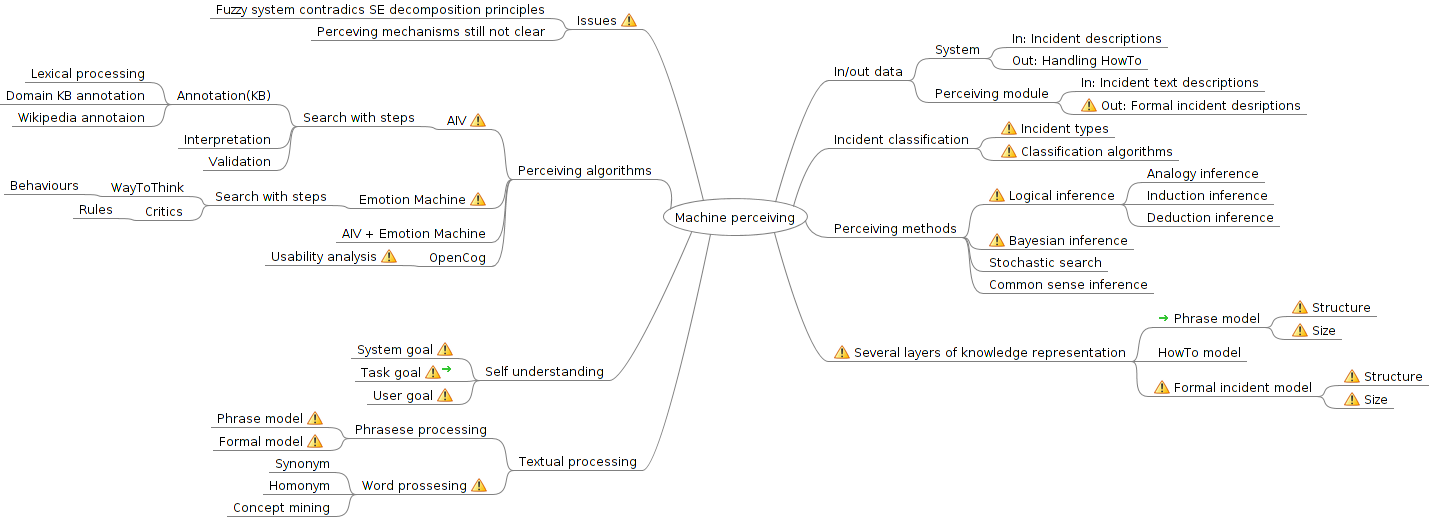
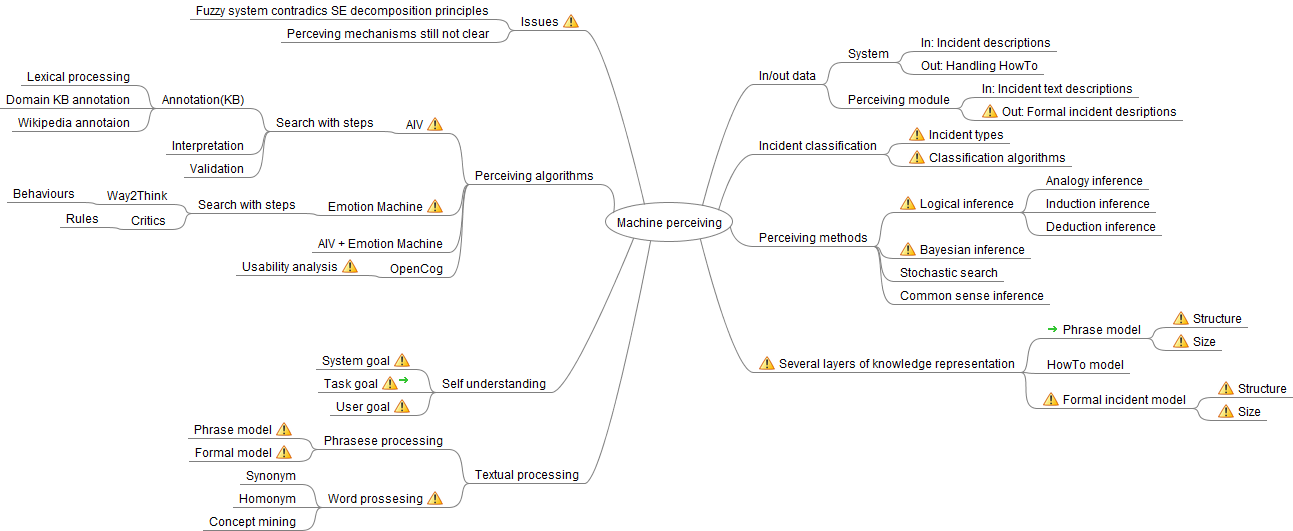
menta-0.3-88: document openCog Solution. Added AtomSpace and PLN sections.

diff --git a/doc/informal/mind-maps/problem highlevel.mm b/doc/informal/mind-maps/problem highlevel.mm
@@ -42,7 +42,7 @@
 <node CREATED="1325446113846" ID="ID_526088594" MODIFIED="1325446356387" TEXT="Emotion Machine">
 <icon BUILTIN="messagebox_warning"/>
 <node CREATED="1325446427154" ID="ID_1445855796" MODIFIED="1325446439569" TEXT="Search with steps">
-<node CREATED="1325446151290" HGAP="19" ID="ID_1637090517" MODIFIED="1325446480120" TEXT="WayToThink" VSHIFT="2">
+<node CREATED="1325446151290" HGAP="19" ID="ID_1637090517" MODIFIED="1325752166923" TEXT="Way2Think" VSHIFT="2">
 <node CREATED="1325446285584" ID="ID_12759889" MODIFIED="1325446291563" TEXT="Behaviours"/>
 </node>
 <node CREATED="1325446143801" ID="ID_1983234908" MODIFIED="1325446482681" TEXT="Critics">

diff --git a/doc/informal/emotion-machine.md b/doc/informal/emotion-machine.md
@@ -59,8 +59,8 @@ Critics are applied sequentially and selects proper Selector(Way to Think).
  1. Simplest case is the direct instruction processing.
 The Learned Reactive Critics is activated and retrieve the Knowing How way of thinking.
  1. Complex case is the problem description processing.
-Ex.: Learned Reactive Critics activates ReasoningByAnalogy, DivideAndConquer WayToThink, then WayToThink activates Deliberate Critics,
-that activates Reformulation WayToThink, Reformulation changes the representation of inbound data to proper way and activates Learned Critics then KnowHow WayToThink.
+Ex.: Learned Reactive Critics activates ReasoningByAnalogy, DivideAndConquer Way2Think, then Way2Think activates Deliberate Critics,
+that activates Reformulation Way2Think, Reformulation changes the representation of inbound data to proper way and activates Learned Critics then KnowHow Way2Think.
 
 `Learned -> [ReasoningByAnalogy|DivideAndConquer] -> Deliberate -> Reformulation -> Learned -> KnowHow`
 
@@ -86,13 +86,13 @@ that activates Reformulation WayToThink, Reformulation changes the representatio
      3. [YAGO2](http://www.mpi-inf.mpg.de/yago-naga/yago/)
      3. [DBPedia](http://dbpedia.org/About)
 
- 1. Self Conscious Critics starts the Perceiving WayToThink that controls following Critics-WayToThink pairs
-  2. Activates Critics from lower to upper level one by one to find proper WayToThink (if no WayToThink found activates Critics on the level above).
-  2. Runs found WayToThink that produces some additional annotations(ex.: some inference results could be added).
-  2. Validate the WayToThink annotations, if annotations conforms the formalisation criteria stops the process, if not activates proper Critics again.
+ 1. Self Conscious Critics starts the Perceiving Way2Think that controls following Critics-Way2Think pairs
+  2. Activates Critics from lower to upper level one by one to find proper Way2Think (if no Way2Think found activates Critics on the level above).
+  2. Runs found Way2Think that produces some additional annotations(ex.: some inference results could be added).
+  2. Validate the Way2Think annotations, if annotations conforms the formalisation criteria stops the process, if not activates proper Critics again.
   2. Controls energy spent by the system, if exceeded maximum available for the perceiving operation stops.
 
-    3. Each operation Critics or WayToThink is assigned some degree of energy that is requested for the operation to be performed.
+    3. Each operation Critics or Way2Think is assigned some degree of energy that is requested for the operation to be performed.
     3. Each type of incident has maximum allowed energy to spent.
 
 ## Formalisation Training Workflow.
@@ -100,7 +100,7 @@ that activates Reformulation WayToThink, Reformulation changes the representatio
 ### Workflow
 
  1. Preliminary annotation, see Formalisation Production Workflow.
- 1. Perceiving WayToThink, see Formalisation Production Workflow, searches for the formalized description or is stopped if the maximum number of cycles exceeded.
+ 1. Perceiving Way2Think, see Formalisation Production Workflow, searches for the formalized description or is stopped if the maximum number of cycles exceeded.
  1. Machine Learning:
    2. Stores the formalized description validation rules regarding the incident description annotated text contents and Incident category.
    2. Stores the Incident Solution regarding formalized description and the Incident category.

diff --git a/doc/informal/openCog.md b/doc/informal/openCog.md
@@ -1,5 +1,5 @@
 #OpenCog
-Solution is based on [OpenCog project](http://opencog.org/projects/)
+Analysis of [OpenCog project](http://opencog.org/projects/)
 
 ## OpenCog projects [see](http://opencog.org/projects/)
 
@@ -13,6 +13,36 @@ There are also a number of affiliated projects that are in separate repositories
  1. [NLGen](https://launchpad.net/nlgen) and [NLGen2](https://launchpad.net/nlgen2) – Do the inverse of RelEx. Convert semantic relationships to natural language.
 … and more!
 
+## Solution overall
+
+### Definitions
+[See](https://github.com/menta/menta-0.3/blob/master/doc/informal/emotion-machine.md)
+
+### Analysis scope
+Could the Solution produce the formalisation starting from Text to AnnotatedText according to formalisation criteria?
 
 ## AtomSpace
 
+### Analysis scope
+Could the storage be reused in our project, are the AtomSpace is capable of storage Scala objects of our project: HowTo-s, Way2Think ...?
+
+## PLN
+
+ 1. Entry criteria = client provided new predicates and the request.
+ 1. Exit criteria = the Frequency Confidence pair found or the energy for the operation is exceeded.
+ 1. Inbound data = the AnnotatedText [see Component diagram section](https://github.com/menta/menta-0.3/blob/master/doc/informal/annotation-interpretation-validation.md)
+ 1. Outbound data = the Frequency Confidence pair of the predicates.
+
+### Analysis scope
+Could the project be used in:
+ 1. Deliberate Critics.
+ 1. ReasoningByAnalogy Way2Think.
+ 1. Planing Way2Think.
+ 1. Simplification Way2Think.
+ 1. Elevation Way2Think.
+ 1. Reformulation Way2Think.
+ 1. Contradiction Way2Think.
+ 1. Simulation Way2Think.
+ 1. Correlation Way2Think.
+ 1. Logical Reasoning Way2Think
+ 1. Wishful thinking.
